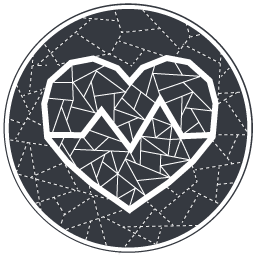
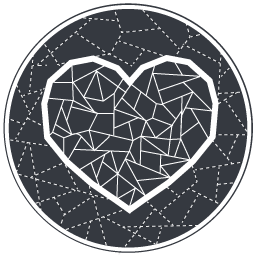
remove heartbeat for other service

Changed region(s): [[0.1875, 0.2812, 0.8438, 0.625], [0.2812, 0.625, 0.3125, 0.6562]]

diff --git a/services/MoL/service/static/index.html b/services/MoL/service/static/index.html
@@ -32,7 +32,7 @@
                 <span class="icon-bar"></span>
                 <span class="icon-bar"></span>
             </button>
-            <a class="navbar-brand" href="#">Ministry of Love <span class='webix_icon fa-heartbeat'></span></a>
+            <a class="navbar-brand" href="#">Ministry of Love <span class='webix_icon fa-heart-o'></span></a>
         </div>
         <div class="collapse navbar-collapse" id="navbar-coll">
             <ul class="nav navbar-nav navbar-right">
